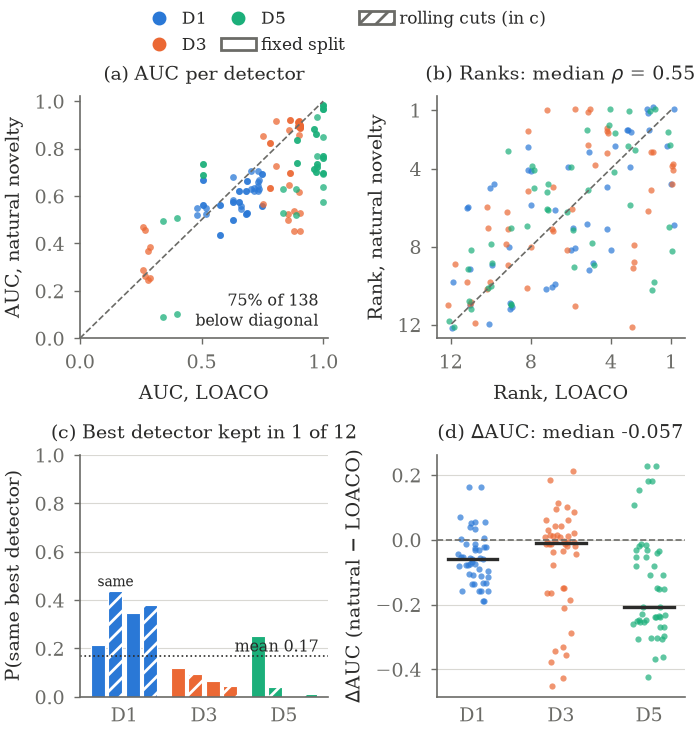
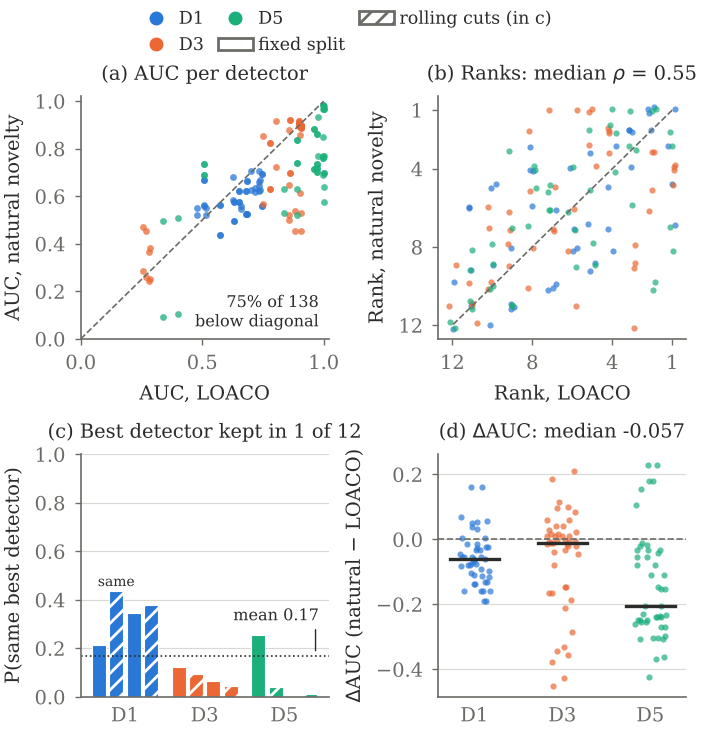
Fig. 1(c): move 'mean' label above the bars with a leader line
Claude-Session: https://claude.ai/code/session_01LmdWFNgatKQB5uMLcpPZvX

diff --git a/paper/hone_user/figs_tables.py b/paper/hone_user/figs_tables.py
@@ -108,8 +108,9 @@ def fig_agree():
     c.set_xticks([np.mean(xs[j:j + 4]) for j in (0, 4, 8)], list(DS_C))
     c.set_ylim(0, 1); c.set_ylabel("P(same best detector)")
     c.axhline(G["p_same_winner_mean"], color=INK, lw=0.6, ls=":")
-    c.text(xs[-1] + 0.5, G["p_same_winner_mean"] + 0.02, f"mean {G['p_same_winner_mean']:.2f}", ha="right",
-           fontsize=5.8)
+    c.text(xs[-1] + 0.5, 0.30, f"mean {G['p_same_winner_mean']:.2f}", ha="right", va="bottom", fontsize=5.8)
+    c.annotate("", xy=(xs[-1] + 0.3, G["p_same_winner_mean"]), xytext=(xs[-1] + 0.3, 0.30),
+               arrowprops=dict(arrowstyle="-", color=INK, lw=0.5))
     c.set_title(f"(c) Best detector kept in {G['loaco_winner_retained']} of {G['n_configurations']}", fontsize=7)
     clean(c); c.tick_params(axis="x", length=0)
     # (d) delta AUC distribution per dataset

diff --git a/paper/hone_user/fig1_agree.py b/paper/hone_user/fig1_agree.py
@@ -94,8 +94,9 @@ def main():
     c.set_xticks([np.mean(xs[j:j + 4]) for j in (0, 4, 8)], list(DS_C))
     c.set_ylim(0, 1); c.set_ylabel("P(same best detector)")
     c.axhline(G["p_same_winner_mean"], color=INK, lw=0.6, ls=":")
-    c.text(xs[-1] + 0.5, G["p_same_winner_mean"] + 0.02, f"mean {G['p_same_winner_mean']:.2f}", ha="right",
-           fontsize=5.8)
+    c.text(xs[-1] + 0.5, 0.30, f"mean {G['p_same_winner_mean']:.2f}", ha="right", va="bottom", fontsize=5.8)
+    c.annotate("", xy=(xs[-1] + 0.3, G["p_same_winner_mean"]), xytext=(xs[-1] + 0.3, 0.30),
+               arrowprops=dict(arrowstyle="-", color=INK, lw=0.5))
     c.set_title(f"(c) Best detector kept in {G['loaco_winner_retained']} of {G['n_configurations']}", fontsize=7)
     clean(c); c.tick_params(axis="x", length=0)
 

diff --git a/paper/hone_user/fig1_selfcontained.py b/paper/hone_user/fig1_selfcontained.py
@@ -80,7 +80,9 @@ for i, (key, lo, nn, rl, rn, p, flip) in enumerate(ROWS):
 c.set_xticks([np.mean(xs[j:j + 4]) for j in (0, 4, 8)], list(DS_C))
 c.set_ylim(0, 1); c.set_ylabel("P(same best detector)")
 c.axhline(G["p_same_winner_mean"], color=INK, lw=0.6, ls=":")
-c.text(xs[-1] + 0.5, G["p_same_winner_mean"] + 0.02, f"mean {G['p_same_winner_mean']:.2f}", ha="right", fontsize=5.8)
+c.text(xs[-1] + 0.5, 0.30, f"mean {G['p_same_winner_mean']:.2f}", ha="right", va="bottom", fontsize=5.8)
+c.annotate("", xy=(xs[-1] + 0.3, G["p_same_winner_mean"]), xytext=(xs[-1] + 0.3, 0.30),
+           arrowprops=dict(arrowstyle="-", color=INK, lw=0.5))
 c.set_title(f"(c) Best detector kept in {G['loaco_winner_retained']} of {G['n_configurations']}", fontsize=7)
 clean(c); c.tick_params(axis="x", length=0)
 
